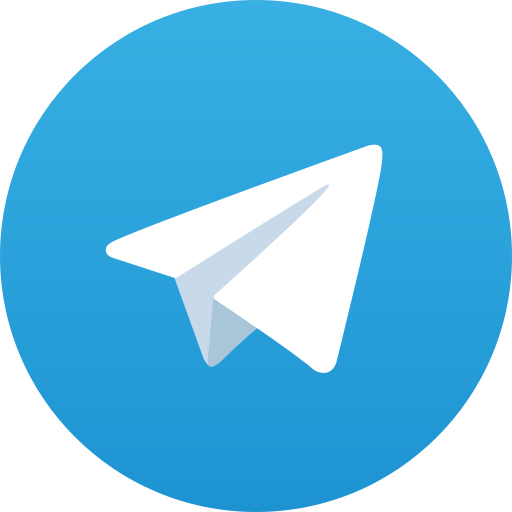
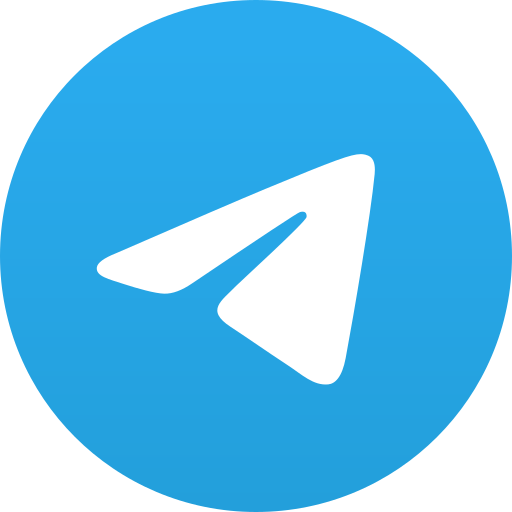
Please enter the commit message for your changes. Lines starting  with '' will be ignored, and an empty message aborts the commit.
On branch main
 Your branch is ahead of 'origin/main' by 1 commit.
   (use "git push" to publish your local commits)

 Changes to be committed:
	modified:   index.html
	modified:   package-lock.json
	modified:   package.json
	modified:   src/App.jsx
	modified:   src/assets/github.png
	modified:   src/assets/telegram.png
	modified:   src/index.css
	modified:   src/main.jsx
	modified:   vite.config.js

Changed region(s): [[0.1875, 0.3438, 0.7188, 0.75], [0.6562, 0.2812, 0.75, 0.4375], [0.5625, 0.3125, 0.6562, 0.375]]

diff --git a/src/App.jsx b/src/App.jsx
@@ -1,6 +1,6 @@
 import React, { useEffect, useState } from 'react';
-import './public/background.css';
-import { animateStars, clearStars, initStars } from "./public/background.js";
+import './components/background.css';
+import { animateStars, clearStars, initStars } from "./components/background.js";
 import avatarImage from './assets/avatar.png';
 import './index.css';
 import githubIcon from './assets/github.png';
@@ -17,7 +17,7 @@ function App() {
             'Как дела? ',
             'Я крутой? ',
             'aqua.coder? Не, не слышал ',
-            'Вы знали, что мы живем в матрице? ',
+            'А вы знали, что мы живем в матрице? ',
             'Как называют араба в гробу? - бумбокс ',
         ];
         const randomIndex = Math.floor(Math.random() * texts.length);

diff --git a/src/index.css b/src/index.css
@@ -1,5 +1,3 @@
-@import "./public/background.css";
-
 .avatar-container {
     display: flex;
     flex-direction: column;
@@ -24,7 +22,7 @@
     bottom: -154%;
     right: 26%;
     cursor: pointer;
-    filter: drop-shadow(0 0 18px #ffffff);
+    filter: drop-shadow(0 0 10px rgba(255, 255, 255, 0.75));
 }
 
 .telegram-icon {
@@ -34,12 +32,12 @@
     bottom: -154%;
     left: 26%;
     cursor: pointer;
-    filter: drop-shadow(0 0 18px #0088cc);
+    filter: drop-shadow(0 0px 10px rgba(0, 136, 204, 1.0));
 }
 
 .github-icon:hover,
 .telegram-icon:hover {
-    opacity: 0.7;
+    opacity: 0.8;
     transition: opacity 0.3s ease-in-out;
 }
 

diff --git a/src/main.jsx b/src/main.jsx
@@ -1,10 +1,6 @@
 import React from 'react';
 import ReactDOM from 'react-dom';
-import App from './App.jsx';
+import App from './App';
+import './index.css';
 
-ReactDOM.render(
-    <React.StrictMode>
-        <App />
-    </React.StrictMode>,
-    document.getElementById('root')
-);
+ReactDOM.render(<App />, document.getElementById('root'));

diff --git a/index.html b/index.html
@@ -5,7 +5,6 @@
   <link rel="icon" type="image/svg+xml" href="/vite.svg" />
   <meta name="viewport" content="width=device-width, initial-scale=1.0" />
   <title>Vite + React</title>
-  <link rel="stylesheet" href="./index.css">
 </head>
 <body>
 <div id="root"></div>

diff --git a/vite.config.js b/vite.config.js
@@ -1,7 +1,9 @@
 import { defineConfig } from 'vite'
 import react from '@vitejs/plugin-react-swc'
 
-// https://vitejs.dev/config/
 export default defineConfig({
   plugins: [react()],
+  server: {
+    port: 3000
+  }
 })
